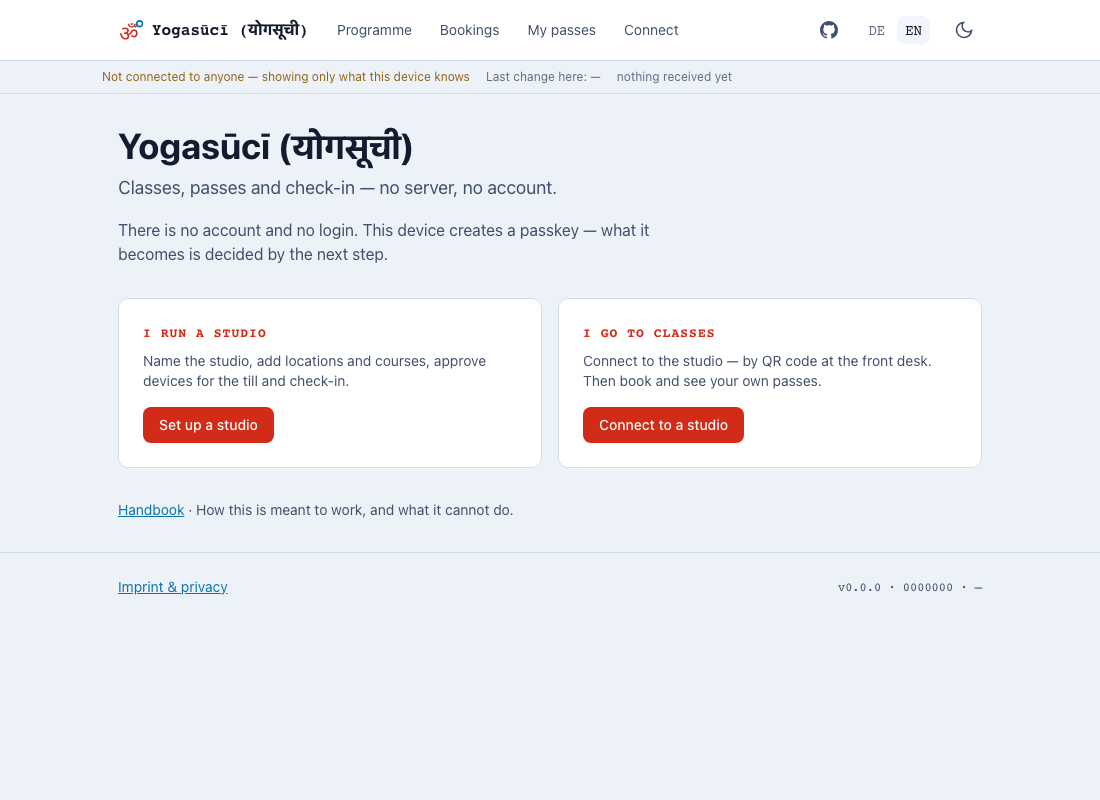
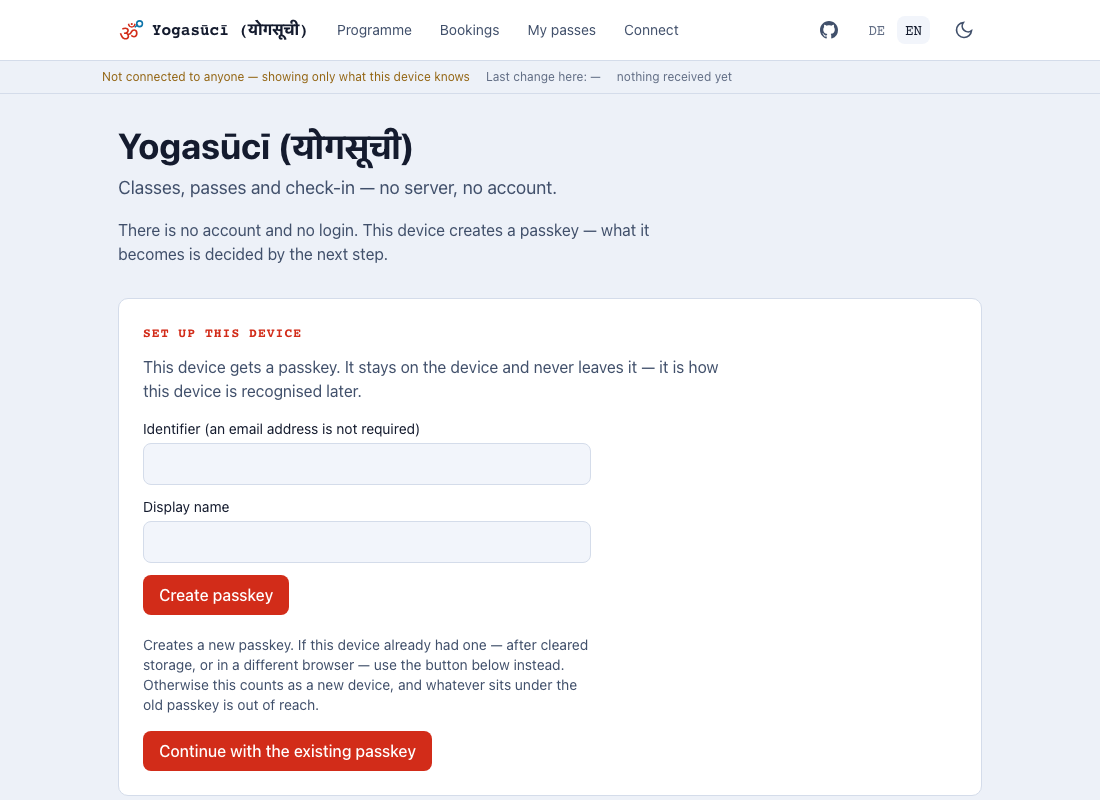
Ask a first visit for a passkey, not for a category
Opening yogasuci.le-space.de asked which of two kinds of person you are, and then
asked for a passkey anyway. The fork recorded nothing: `PATHS` was two links, no
stored role, no consequence. It postponed the one step everybody takes.

It could not have recorded anything either. Roles here are granted, not declared
— `registerDevice` writes owner/front-desk/teacher into the registry, and the app
says as much to students: "that is the owner's decision". A checkbox at this
point would have been a control that looks like it decides something and does
not, which is worse than no control.

So the two cards move behind the gate. Same cards, same wording, shown once the
passkey exists — at which point following one of them does something.

The gate costs a returning device its node boot on this page, where before it
paid nothing. The trade falls the right way: a device with a passkey came here to
use the app, and a device without one — the first visit this page exists for —
still boots nothing.

**Automatic passkey detection was half built and half impossible.**
`bootIfIdentityKnown` already restores a session with no prompt at all when the
credential is in local storage, which is more than was asked for. The other half
cannot be done: a browser never reveals whether a passkey exists without a user
gesture, on purpose, or any site could probe where you have accounts.

What that leaves is a trap, and it is the real find here. This screen appears
[…]

diff --git a/src/routes/+page.svelte b/src/routes/+page.svelte
@@ -10,11 +10,27 @@
 	 *
 	 * There is no "log in" to point at, and that is the app rather than an omission:
 	 * a device creates a passkey and *becomes* a studio or a student by what it does
-	 * next. So both paths are named here, in the order somebody needs them, instead
-	 * of being left to be discovered.
+	 * next.
+	 *
+	 * Which is why the two paths now sit *behind* the gate rather than in front of
+	 * it. They used to be the first thing a visitor met, and they decided nothing:
+	 * two links, no stored role, no consequence — a fork that only postponed the one
+	 * step everybody has to take anyway. Roles here are granted rather than declared
+	 * (`registerDevice` writes owner/front-desk/teacher into the registry, and the
+	 * app says so to students: "that is the owner's decision"), so a choice made at
+	 * this point could not have been recorded even if somebody had asked for it.
+	 *
+	 * A passkey first, then the question of what to do with it — at which point the
+	 * same two cards are an action rather than a gate.
+	 *
+	 * The gate costs a returning device its node boot on this page, where before it
+	 * paid nothing. That is the trade, and it falls the right way: a device with a
+	 * passkey is a device that came here to use the app, and one without — the first
+	 * visit this page exists for — still boots nothing at all.
 	 */
 	import { base, resolve } from '$app/paths';
 	import InstallHint from '$lib/components/InstallHint.svelte';
+	import StudioGate from '$lib/components/StudioGate.svelte';
 	import * as m from '$lib/paraglide/messages.js';
 
 	const PATHS = /** @type {const} */ ([
@@ -40,19 +56,28 @@
 
 <p class="mt-4 max-w-xl text-muted" data-testid="start-intro">{m.start_intro()}</p>
 
-<div class="mt-8 grid gap-4 sm:grid-cols-2" data-testid="start-paths">
-	{#each PATHS as entry (entry.path)}
-		<section class="rounded-card border border-border bg-surface p-6" data-testid={entry.testid}>
-			<h2 class="eyebrow">{entry.title()}</h2>
-			<p class="mt-2 text-sm text-muted">{entry.body()}</p>
-			<a
-				href={resolve(entry.path)}
-				class="mt-4 inline-block rounded-control bg-accent px-4 py-2 text-sm font-medium text-accent-contrast no-underline"
-			>
-				{entry.action()}
-			</a>
-		</section>
-	{/each}
+<div class="mt-8">
+	<StudioGate>
+		<p class="max-w-xl text-muted" data-testid="start-ready-intro">{m.start_ready_intro()}</p>
+
+		<div class="mt-4 grid gap-4 sm:grid-cols-2" data-testid="start-paths">
+			{#each PATHS as entry (entry.path)}
+				<section
+					class="rounded-card border border-border bg-surface p-6"
+					data-testid={entry.testid}
+				>
+					<h2 class="eyebrow">{entry.title()}</h2>
+					<p class="mt-2 text-sm text-muted">{entry.body()}</p>
+					<a
+						href={resolve(entry.path)}
+						class="mt-4 inline-block rounded-control bg-accent px-4 py-2 text-sm font-medium text-accent-contrast no-underline"
+					>
+						{entry.action()}
+					</a>
+				</section>
+			{/each}
+		</div>
+	</StudioGate>
 </div>
 
 <InstallHint />

diff --git a/e2e/m0-shell.spec.js b/e2e/m0-shell.spec.js
@@ -5,19 +5,41 @@
 import { test, expect, connectViaPaste, onboard } from './fixtures.js';
 
 test.describe('app shell', () => {
-	test('the front page names both ways in, and the handbook', async ({ alice }) => {
+	test('asks a first visit for a passkey, not for a category', async ({ alice }) => {
 		await alice.goto('/');
 
-		// Somebody arriving here has two questions — what is this, and where do I
-		// start — and neither is answered by a list of milestones, which is what this
-		// page used to show on a live domain.
+		// The first screen is the one step everybody takes. It used to be a choice
+		// between "I run a studio" and "I go to yoga", which recorded nothing: roles
+		// are granted through the registry, so the fork only postponed this form.
+		await expect(alice.getByTestId('onboarding')).toBeVisible({ timeout: 90_000 });
+		await expect(alice.getByTestId('start-paths')).toHaveCount(0);
+
+		// Still says what this is, and still points at the handbook — both belong
+		// outside the gate, for somebody who has not decided to use the app yet and
+		// for somebody who cannot get past it.
 		await expect(alice.getByTestId('start-intro')).toBeVisible();
+		await expect(alice.getByTestId('start-handbook')).toHaveAttribute('href', /handbuch/);
+	});
+
+	test('names both ways in once the device has a passkey', async ({ alice }) => {
+		// The same two cards as before, moved to where they are an action rather
+		// than a gate: the passkey exists, so following one of them does something.
+		await alice.goto('/?ice=host');
+		await onboard(alice, 'alice');
+
 		await expect(alice.getByTestId('start-studio')).toBeVisible();
 		await expect(alice.getByTestId('start-student')).toBeVisible();
+	});
 
-		// There is nobody to ring when something is unclear, so the way to the
-		// handbook belongs on the page before anyone needs it.
-		await expect(alice.getByTestId('start-handbook')).toHaveAttribute('href', /handbuch/);
+	test('says what a new passkey costs a device that already had one', async ({ alice }) => {
+		// This screen cannot tell a new device from one whose storage was cleared —
+		// a browser never reveals whether a passkey exists without a gesture. So the
+		// consequence has to be legible before the press: creating a second passkey
+		// means a second DID, and the studio no longer knows this device.
+		await alice.goto('/');
+
+		await expect(alice.getByTestId('onboarding-create-warning')).toBeVisible({ timeout: 90_000 });
+		await expect(alice.getByTestId('recover-identity')).toBeVisible();
 	});
 
 	test('nothing scrolls sideways on a phone, with or without the counter screens', async ({

diff --git a/playwright.config.js b/playwright.config.js
@@ -1,5 +1,7 @@
 import { defineConfig, devices } from '@playwright/test';
 
+const PORT = 4183;
+
 export default defineConfig({
 	testDir: 'e2e',
 	timeout: 90_000,
@@ -7,9 +9,19 @@ export default defineConfig({
 	// A failing handshake is almost always a real failure, not a flake. One
 	// retry in CI covers runner hiccups without hiding a broken transport.
 	retries: process.env.CI ? 1 : 0,
+	// 4183, not vite's default 4173. Several projects on this machine preview on
+	// the default, all of them with `--strictPort`, so whichever suite started
+	// second died with "port already used" — and the first one to notice was a
+	// developer wondering why an unrelated repository's tests had stopped working.
+	// A port of our own costs nothing and removes the class of failure; sharing it
+	// makes every local run depend on what else happens to be running.
+	//
+	// One constant rather than three literals: the command, the readiness probe
+	// and the baseURL have to agree, and the way that breaks is a suite that waits
+	// four minutes for a server already listening somewhere else.
 	webServer: {
-		command: 'pnpm run build && pnpm exec vite preview --port 4173 --strictPort',
-		port: 4173,
+		command: `pnpm run build && pnpm exec vite preview --port ${PORT} --strictPort`,
+		port: PORT,
 		// Never reuse, not even locally. A server left running from an earlier run
 		// serves the bundle it was built from, so a local run can silently test
 		// code that no longer exists — which cost several debugging rounds where
@@ -19,7 +31,7 @@ export default defineConfig({
 		timeout: 240_000
 	},
 	use: {
-		baseURL: 'http://localhost:4173',
+		baseURL: `http://localhost:${PORT}`,
 		screenshot: 'only-on-failure',
 		video: 'retain-on-failure',
 		trace: 'on-first-retry'

diff --git a/src/lib/components/StudioGate.svelte b/src/lib/components/StudioGate.svelte
@@ -96,6 +96,26 @@
 				>
 					{m.onboarding_create()}
 				</button>
+
+				<!--
+					The consequence, next to the button that causes it.
+
+					This screen appears whenever local storage holds no credential, and
+					that is two different situations wearing the same face: a genuinely
+					new device, and one whose storage was cleared — a new browser, a
+					wiped profile, a passkey synced from elsewhere. In the second, the
+					top button is the wrong one, and pressing it does not fail: it makes
+					a *second* passkey and therefore a second DID, under which the
+					studio does not know this device and its old passes are unreachable.
+
+					A browser will not tell us which situation this is — it never reveals
+					whether a passkey exists without a gesture, on purpose. So the choice
+					cannot be made for the person, and the only honest help is to name
+					what each button does before they press one.
+				-->
+				<p class="mt-2 max-w-md text-sm text-muted" data-testid="onboarding-create-warning">
+					{m.onboarding_create_warning()}
+				</p>
 			</form>
 
 			<!--

diff --git a/e2e/screenshots.spec.js b/e2e/screenshots.spec.js
@@ -66,8 +66,11 @@ test('the screens the handbook talks about', async ({ alice, bob, carol }) => {
 	test.setTimeout(900_000);
 
 	// --- The front door ----------------------------------------------------
+	// What a first visit actually sees now: the one step everybody takes. The two
+	// paths moved behind the gate, so waiting for them here would wait for
+	// something that only appears once a passkey exists.
 	await alice.goto('/?ice=host');
-	await expect(alice.getByTestId('start-paths')).toBeVisible();
+	await expect(alice.getByTestId('onboarding')).toBeVisible(READY);
 	await shoot(alice, 'start');
 
 	// --- Setting up --------------------------------------------------------

diff --git a/docs-site/i18n/en/docusaurus-plugin-content-docs/current/index.md b/docs-site/i18n/en/docusaurus-plugin-content-docs/current/index.md
@@ -45,6 +45,12 @@ the same time, a pass can be redeemed twice. The app does not prevent that — i
 **shows** it, with both records, as soon as the devices meet again. More under
 [What the app cannot do](/what-it-cannot-do).
 
+**The first step is always the same.** Whether you run a studio or go to yoga,
+the device creates a passkey first. What it becomes after that is decided by the
+next step and not by anything declared in advance — which is why nobody here asks
+who you are. If this device has had a passkey before, take the second button
+rather than the first.
+
 ![The front page](/img/screens/en/start.png)
 
 ## Where the name comes from

diff --git a/docs-site/docs/index.md b/docs-site/docs/index.md
@@ -49,6 +49,12 @@ verhindert das nicht — sie **zeigt** es, sobald die Geräte sich wieder begegn
 mit beiden Belegen. Mehr dazu unter [Was die App nicht
 kann](/what-it-cannot-do).
 
+**Der erste Schritt ist immer derselbe.** Ob ihr ein Studio führt oder zum Yoga
+geht: Das Gerät legt zuerst einen Passkey an. Was danach daraus wird, entscheidet
+der nächste Schritt und keine Angabe im Voraus — deshalb fragt euch hier auch
+niemand, wer ihr seid. Hattet ihr auf diesem Gerät schon einmal einen Passkey,
+nehmt den zweiten Knopf statt des ersten.
+
 ![Die Startseite](/img/screens/de/start.png)
 
 ## Woher der Name kommt
